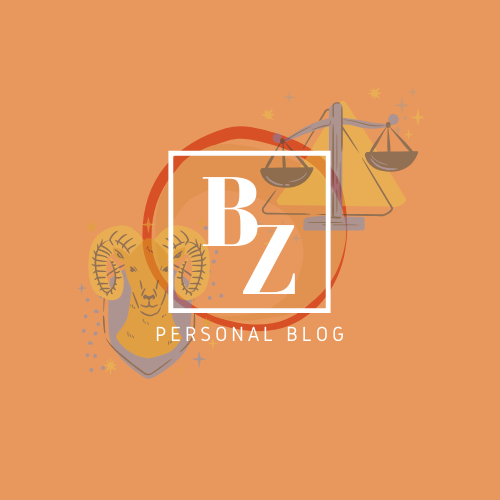
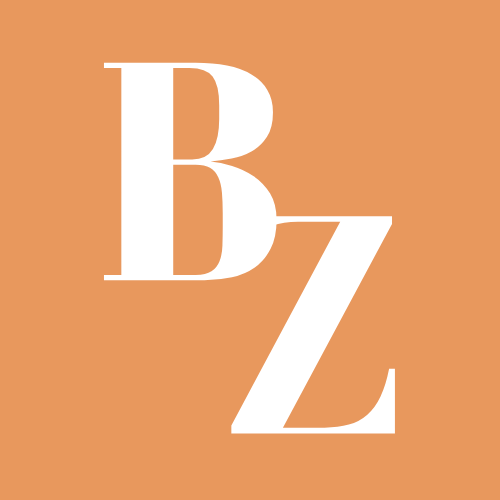
commit

Changed region(s): [[0.15, 0.12, 0.84, 0.87], [0.18, 0.72, 0.21, 0.75]]

diff --git a/src/components/header.js b/src/components/header.js
@@ -8,6 +8,10 @@ import {
   NavbarBrand,
   Nav,
   NavItem,
+  UncontrolledDropdown,
+  DropdownToggle,
+  DropdownMenu,
+  DropdownItem,
   NavLink,
   NavbarText
 } from 'reactstrap';
@@ -20,15 +24,24 @@ const Header = ({ siteTitle }) => {
   return (
     <div>
       <Navbar color="#fc9" light expand="md">
-        <NavbarBrand href="/">Home</NavbarBrand>
+        <NavbarBrand href="/"><img src="../images/icon.png"></img>Home</NavbarBrand>
         <NavbarToggler onClick={toggle} />
         <Collapse isOpen={isOpen} navbar>
           <Nav className="mr-auto" navbar>
           <NavItem>
-              <NavLink href="/ziyah-blog/">Aziyah's Blog</NavLink>
-            </NavItem>
-            <NavItem>
-              <NavLink href="/haqqi-blog/">Bay Haqqi's Blog</NavLink>
+          <UncontrolledDropdown nav inNavbar>
+              <DropdownToggle nav caret>
+                Personal Blog
+              </DropdownToggle>
+              <DropdownMenu right>
+                <DropdownItem href="/ziyah-blog/">
+                Aziyah's Blog
+                </DropdownItem>
+                <DropdownItem href="/haqqi-blog/">
+                Bay Haqqi's Blog
+                </DropdownItem>
+              </DropdownMenu>
+            </UncontrolledDropdown>
             </NavItem>
             <NavItem>
               <NavLink href="/page-2/">About</NavLink>
